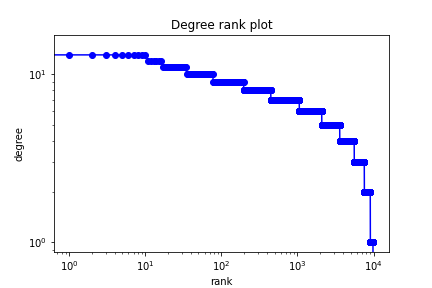
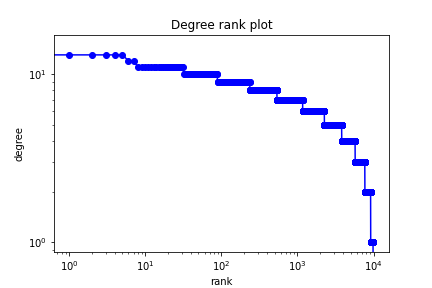
Fixing exercise #2

diff --git a/homeworks/01/homework.py b/homeworks/01/homework.py
@@ -2,6 +2,7 @@
 import matplotlib.pyplot as plt
 import collections
 import random
+import timeit
 from networkx import nx
 
 __author__ = 'Gabriel Luciano Gomes - RA 265673'
@@ -33,12 +34,14 @@ def questionTwo():
     """ QUESTION TWO: Create a graph with the following property:
     for every j > 1, add a link (i,j) for node i < j with a
     custom probability p describred bellow.
-    p = ((kij + e)/sum_{m=1}^{j-1}(k_{mj+e}))*q
+    p = ((kij + e)/sum_{m=1}^{j-1}(k_{mj}+e))*q
     where: 
         - kij = Degree of node i at moment j
         - e = épsilon error 
         - q = rational coefficient
     """
+
+    start = timeit.default_timer()
 
     N = 10000 # number of nodes
     e = 0.00001 # épsilon error
@@ -48,10 +51,14 @@ def questionTwo():
     for i in range(N):
         G.add_node(i)
 
-    for i in range(N):
-        for j in range(1, i):
+    for j in range(N):
+        summatory = 0
+        for m in range(1, j):
+            summatory += G.degree[m] + e 
+
+        for i in range(1, j):
             if (j > 1):
-                customProbability = valueOfP(G.degree[i], G, j)
+                customProbability = valueOfP(G.degree[i], summatory)
                 if (random.random() < customProbability): 
                     G.add_edge(i, j) 
 
@@ -61,19 +68,17 @@ def questionTwo():
     plotNormalScale(G, 'normal_scale_02.png')
     plotLogLogScale(G, 'loglog_scale_02.png')
 
-def valueOfP(kij, G, j):
+    stop = timeit.default_timer()
+    print('Time: ', stop - start) 
+
+def valueOfP(kij, summatory):
     """ Calculates the custom probabilty (p) for exercise #2.
     -Parameters:
     kij: Degree of node i at moment j
-    G: whole Graph
-    j: insant of execution
+    summatory: sum of degress at moment j
     """ 
     e = 0.00001 #épsilon error
     q = 4/3 #rational coefficient
-    summatory = 0
-
-    for i in range(1, j):
-        summatory += G.degree[i] + e
 
     p = ((kij + e)/summatory) * q
     return p
@@ -125,7 +130,7 @@ def plotLogLogScale(G, imageName):
     fig.savefig(imageName)
 
 if __name__ == "__main__":
-    questionOne()
+    #questionOne()
     questionTwo()
 
 
